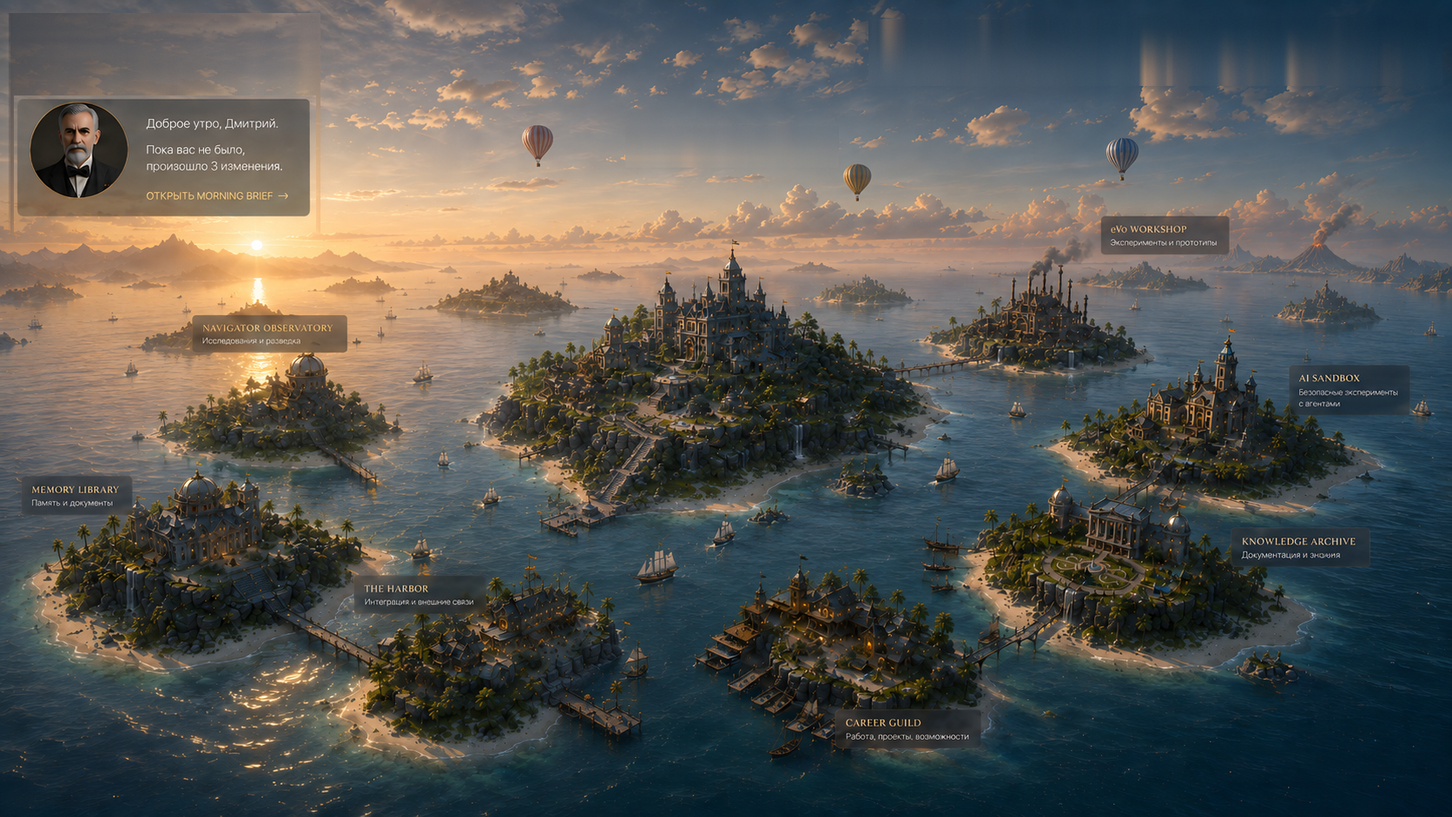
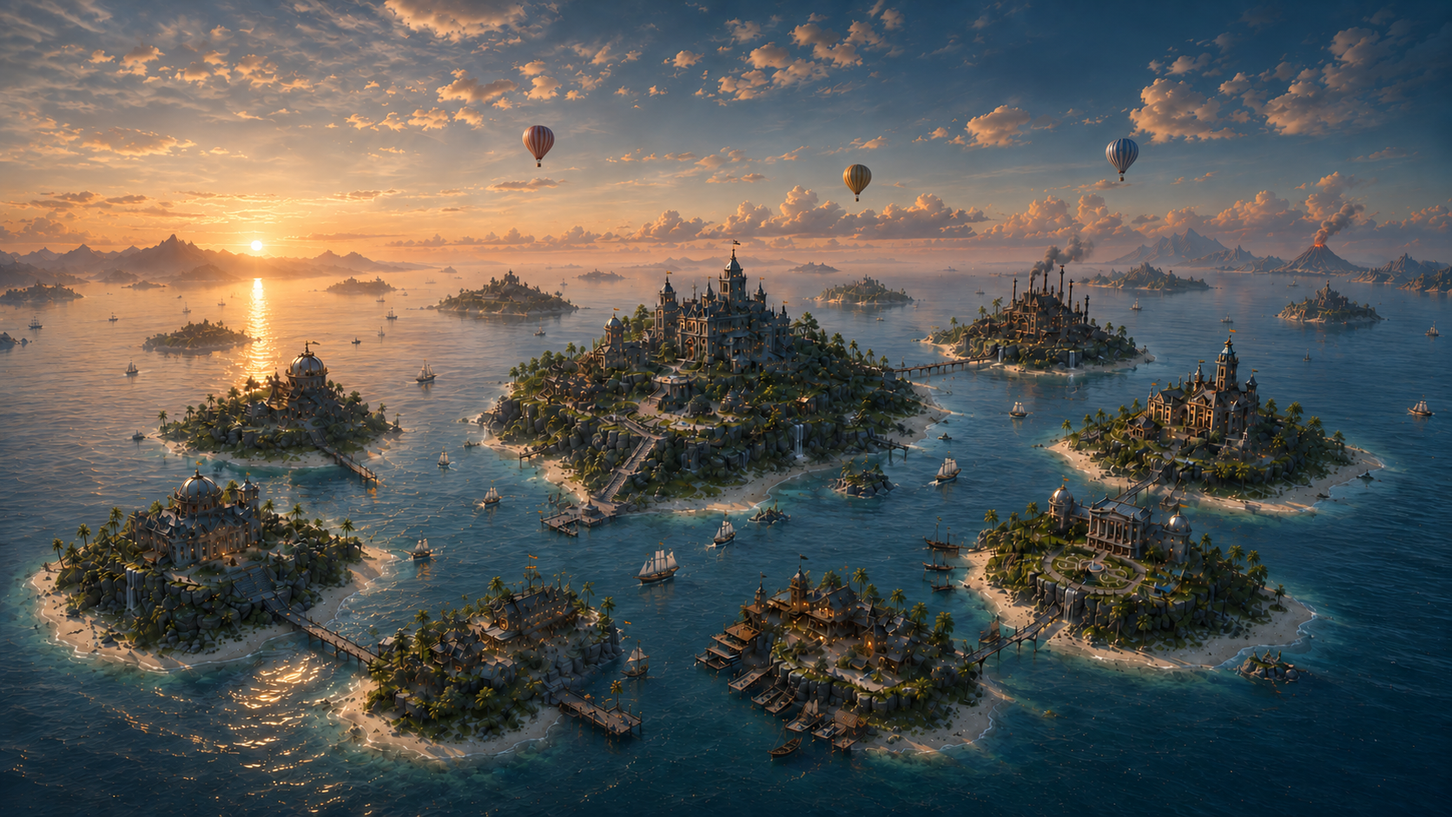
Barrymore plaque as pure HTML over clean art: bg swapped to Clear_main (painted text gone), portrait barrymore.png separate layer (animation-ready), live greeting + task counter (tasks.js), Review link, geometry on CSS variables; journal E-013

diff --git a/eVo/dashboard/style.css b/eVo/dashboard/style.css
@@ -595,26 +595,102 @@ body {
   text-decoration: line-through;
   color: var(--text-muted);
 }
-/* ===== Barrymore plaque: interactive zone over the painted artwork (replaces beacon) ===== */
+/* ===== Barrymore plaque: HTML-плашка поверх чистого арта (replaces beacon) =====
+   Фон (estate_bg.png) больше не содержит нарисованной таблички — плашка живёт
+   в HTML: тёмная деревянная панель + отдельный слой-портрет assets/barrymore.png
+   (готов к будущей анимации). Геометрия правится в одном месте — переменные
+   ниже. Размер и позиция заданы в % от фрейма карты (дизайн-размер 1672x941),
+   текст масштабируется вместе с плашкой через container-query единицы (cqw). */
+:root {
+  --plaque-top: 11%;      /* верхняя кромка плашки */
+  --plaque-left: 1%;      /* левая кромка */
+  --plaque-width: 22%;    /* ширина плашки */
+  --plaque-height: 16%;   /* высота плашки */
+  --portrait-width: 32%;  /* портрет: доля от ширины плашки */
+  --plaque-text-left: 38%;   /* текстовый блок: справа от портрета */
+  --plaque-text-top: 15%;
+  --plaque-text-width: 56%;
+}
+
 .plaque-zone {
   position: absolute;
-  top: 11%;
-  left: 1%;
-  width: 22%;
-  height: 16%;
+  top: var(--plaque-top);
+  left: var(--plaque-left);
+  width: var(--plaque-width);
+  height: var(--plaque-height);
   cursor: pointer;
-  border-radius: 14px;
-  border: 1px solid transparent;
-  transition: background 0.25s ease, border-color 0.25s ease, box-shadow 0.25s ease;
+  border-radius: 16px;
+  background: linear-gradient(165deg, rgba(24, 16, 8, 0.88) 0%, rgba(38, 26, 14, 0.76) 100%);
+  border: 1px solid rgba(251, 191, 36, 0.28);
+  box-shadow: 0 10px 30px rgba(0, 0, 0, 0.45), inset 0 1px 0 rgba(255, 235, 190, 0.12);
+  transition: border-color 0.25s ease, box-shadow 0.25s ease;
   z-index: 5;
 }
 
 .plaque-zone:hover,
 .plaque-zone:focus-visible {
-  background: rgba(251, 191, 36, 0.07);
-  border-color: rgba(251, 191, 36, 0.35);
-  box-shadow: 0 0 24px rgba(251, 191, 36, 0.15);
+  border-color: rgba(251, 191, 36, 0.55);
+  box-shadow: 0 10px 30px rgba(0, 0, 0, 0.45), 0 0 24px rgba(251, 191, 36, 0.2);
   outline: none;
+}
+
+/* Портрет Бэрримора — отдельный круглый слой с золотым кольцом */
+.plaque-portrait {
+  position: absolute;
+  left: 3%;
+  top: 50%;
+  width: var(--portrait-width);
+  aspect-ratio: 1 / 1;
+  transform: translateY(-50%);
+  border-radius: 50%;
+  border: 2px solid rgba(251, 191, 36, 0.55);
+  box-shadow: 0 4px 12px rgba(0, 0, 0, 0.55);
+  filter: sepia(0.12) saturate(1.05);
+  object-fit: cover;
+  pointer-events: none;
+  transition: transform 0.25s ease;
+}
+
+.plaque-zone:hover .plaque-portrait,
+.plaque-zone:focus-visible .plaque-portrait {
+  transform: translateY(-50%) scale(1.04);
+}
+
+/* Живой текст на плашке: контейнер-query — шрифт тянется от ширины блока,
+   поэтому при изменении --plaque-width / --plaque-text-width масштабируется сам. */
+.plaque-content {
+  position: absolute;
+  left: var(--plaque-text-left);
+  top: var(--plaque-text-top);
+  width: var(--plaque-text-width);
+  height: 70%;
+  display: flex;
+  flex-direction: column;
+  justify-content: center;
+  gap: 4%;
+  container-type: inline-size;
+  pointer-events: none;
+}
+
+.plaque-greeting {
+  font-family: var(--font-display);
+  font-size: 8cqw;
+  font-weight: 700;
+  line-height: 1.15;
+  color: #f7e8c9;
+  text-shadow: 0 1px 3px rgba(20, 10, 0, 0.65);
+}
+
+.plaque-info {
+  font-family: var(--font-mono);
+  font-size: 5.6cqw;
+  line-height: 1.3;
+  color: #e8cf9a;
+  text-shadow: 0 1px 2px rgba(20, 10, 0, 0.6);
+  display: -webkit-box;
+  -webkit-line-clamp: 3;
+  -webkit-box-orient: vertical;
+  overflow: hidden;
 }
 
 .plaque-brief-link {

diff --git a/eVo/dashboard/app.js b/eVo/dashboard/app.js
@@ -77,10 +77,11 @@ function initIslandHotspots() {
 
 /**
  * Плашка Баррримора (нарисована на арте) — кликабельная зона вместо маячка.
- * Ссылка «Morning Brief» под плашкой появляется при новом (непрочитанном)
- * докладе и исчезает после его открытия (localStorage: evo_brief_seen).
- * Точка расширения: вместо брифа ссылка может нести краткое имя другого
- * события (1–2 слова) — когда появятся другие типы событий.
+ * Живой контент: приветствие по времени суток + строка данных из Morning Brief
+ * (brief.js). Ссылка «Morning Brief» под плашкой появляется при новом
+ * (непрочитанном) докладе и исчезает после его открытия (localStorage:
+ * evo_brief_seen). Точка расширения: вместо брифа ссылка может нести краткое
+ * имя другого события (1–2 слова) — когда появятся другие типы событий.
  */
 function initBarrymorePlaque() {
   const plaque = document.getElementById("barrymore-plaque");
@@ -90,7 +91,58 @@ function initBarrymorePlaque() {
       if (e.key === "Enter" || e.key === " ") openIslandModal("barrymore");
     });
   }
+  renderPlaqueContent();
+  setInterval(renderPlaqueContent, 60000); // приветствие следует за временем суток
   updateBriefLink();
+}
+
+/**
+ * Живой текст на плашке: приветствие по часам + счётчик задач из EVO_TASKS
+ * (tasks.js). Если задач нет — самая полезная строка из EVO_BRIEF
+ * (дайджест агента → следующий шаг → git).
+ */
+function renderPlaqueContent() {
+  const greetingEl = document.getElementById("plaque-greeting");
+  const infoEl = document.getElementById("plaque-info");
+  const brief = (typeof EVO_BRIEF !== "undefined") ? EVO_BRIEF : null;
+  const tasks = (typeof EVO_TASKS !== "undefined") ? EVO_TASKS : null;
+
+  if (greetingEl) {
+    const h = new Date().getHours();
+    const word = h < 5 ? "Доброй ночи" : h < 12 ? "Доброе утро" : h < 18 ? "Добрый день" : "Добрый вечер";
+    greetingEl.textContent = word + ", Дмитрий";
+  }
+
+  if (infoEl) {
+    let line = "";
+    let tip = "";
+    const urgent = (tasks && tasks.urgent) ? tasks.urgent.length : 0;
+    const regular = (tasks && tasks.regular) ? tasks.regular.length : 0;
+    if (urgent > 0 || regular > 0) {
+      const parts = [];
+      if (urgent > 0) parts.push("Срочных: " + urgent);
+      if (regular > 0) parts.push("Постоянных: " + regular);
+      line = parts.join(" • ");
+      tip = "";
+      if (urgent > 0) tip += "Срочные:\n" + tasks.urgent.map(t => "• " + t.title + " (" + t.source + ")").join("\n") + "\n\n";
+      if (regular > 0) tip += "Постоянные:\n" + tasks.regular.map(t => "• " + t.title + " (" + t.source + ")").join("\n");
+    } else if (brief && brief.agent && brief.agent.summary) {
+      line = brief.agent.summary;
+      tip = line;
+    } else if (brief && brief.current && brief.current.nextAction) {
+      line = brief.current.nextAction;
+      tip = line;
+    } else if (brief && brief.state && brief.state.nextStep) {
+      line = brief.state.nextStep;
+      tip = line;
+    } else if (brief && brief.git) {
+      line = "Ветка " + brief.git.branch + " • " +
+        (brief.git.dirtyFiles === 0 ? "рабочее дерево чистое" : "изменено файлов: " + brief.git.dirtyFiles);
+      tip = line;
+    }
+    infoEl.textContent = line;
+    infoEl.title = tip.trim();
+  }
 }
 
 function markBriefSeen() {

diff --git a/eVo/dashboard/index.html b/eVo/dashboard/index.html
@@ -73,12 +73,19 @@
           </div>
         </div>
 
-        <!-- 2. Стюард Бэрримор — плашка нарисована на арте; живая кликабельная зона вместо маячка.
-             Под плашкой — ссылка на новый (непрочитанный) Morning Brief; после открытия исчезает. -->
+        <!-- 2. Стюард Бэрримор — HTML-плашка поверх чистого арта (фон Clear_main,
+             нарисованная плашка с текстом ушла в историю). Портрет — отдельный
+             слой assets/barrymore.png (круглый, с прозрачностью): готов к анимации.
+             Под плашкой — ссылка Review на новый (непрочитанный) Morning Brief. -->
         <div class="plaque-zone" id="barrymore-plaque" role="button" aria-label="Стюард Бэрримор — Morning Brief" tabindex="0">
+          <img class="plaque-portrait" src="assets/barrymore.png" alt="" aria-hidden="true">
+          <div class="plaque-content" aria-hidden="true">
+            <div class="plaque-greeting" id="plaque-greeting"></div>
+            <div class="plaque-info" id="plaque-info"></div>
+          </div>
           <div class="plaque-brief-link" id="barrymore-brief-link" hidden>
             <span class="plaque-brief-dot"></span>
-            <span>Morning Brief</span><span class="plaque-brief-arrow">→</span>
+            <span>Review</span><span class="plaque-brief-arrow">→</span>
           </div>
         </div>
 
@@ -263,6 +270,7 @@
 
   <script src="languages.js"></script>
   <script src="brief.js"></script>
+  <script src="tasks.js"></script>
   <script src="app.js"></script>
 </body>
 </html>

diff --git a/eVo/dashboard/tasks.js b/eVo/dashboard/tasks.js
@@ -1,0 +1,17 @@
+// Снимок задач для плашки Бэрримора.
+// Пока заполнен вручную (демо-данные на реальных пунктах плана); в будущем
+// генератор (аналогично morning-brief) может собирать этот файл из
+// Memory/Engineering/PLAN.md и Memory/Context/.
+// Формат: { generatedAt, urgent: [{title, source}], regular: [{title, source}] }
+window.EVO_TASKS = {
+  generatedAt: "2026-10-25T12:00:00",
+  urgent: [
+    { title: "Ротация ключей LangSmith/FreeLLMAPI", source: "S-1" },
+    { title: "Мастер-пароль KeePassXC + бэкап хранилища", source: "S-4" }
+  ],
+  regular: [
+    { title: "Актуализация Memory/Context/CURRENT.md", source: "R3" },
+    { title: "Слияние веток по D-002", source: "R9" },
+    { title: "Чистка пустых заглушек (locales, Carrier, Timeline)", source: "R7" }
+  ]
+};

diff --git a/Memory/Engineering/STATE.md b/Memory/Engineering/STATE.md
@@ -6,17 +6,17 @@
 
 ## Контроль
 
-- Обновлено: 2026-10-25 19:06 (E-010 — Morning Brief MVP + KeePassXC для ключей; ранее: 18:31 E-009, 16:39 S-3+отчёт, 15:29 E-001, 14:38 создание)
+- Обновлено: 2026-10-25 22:23 (E-013 — чистый арт + HTML-плашка Баррримора; ранее: 19:30 E-012, 19:15 E-011, 19:06 E-010, 18:31 E-009, 16:39 S-3+отчёт, 15:29 E-001, 14:38 создание)
 - Ветка: `feature_1.8.2` (создана из release/v1.8.1 после его пуша)
-- HEAD: `cdbbebc` на момент записи (RFC/D-002/отчёт/доки); эта запись журнала фиксируется следующим коммитом
-- Рабочее дерево: untracked — только `.graphifyignore` (существовал до начала работ) и `Memory/Engineering/`; `release/v1.8.1` запушен (`709b2c5`); `feature_1.8.2` НЕ запушена (пуш не запрашивался)
-- Время последней проверки Git-состояния: 2026-10-25 18:31 (после COMMIT3 `cdbbebc`)
+- HEAD: `b6c98b1` на момент записи (Barrymore UX E-012); запись E-013 фиксируется следующим коммитом
+- Рабочее дерево: изменены Docs/Barrymore.md, Docs/Map.md, CHANGELOG.md, eVo/dashboard/* (фон, app.js, index.html, style.css), Memory/Engineering/*; новые: eVo/dashboard/tasks.js, eVo/dashboard/assets/barrymore.png, Vision/.../Barrymore.png + Clear_main.png + ещё 2 референса; удалён пользователем старый скрин в Vision/; untracked-мусор: `.graphifyignore`, 8 копий «estate_bg_original — копия (N).png» в assets (не мои, не коммитил); `release/v1.8.1` запушен (`709b2c5`); `feature_1.8.2` НЕ запушена
+- Время последней проверки Git-состояния: 2026-10-25 22:23 (перед коммитом E-013)
 
 ## Статус аудита
 
 **Аудит завершён и частично реализован.** E-001…E-008 — исследование, синтез, отчёт (архивная копия: `Memory/Archive/Reports/Report-2026-10-25-audit.md`). E-009 — реструктуризация контура по решениям пользователя (RFC-001; коммиты `fbffd54`, `032eb57`, `cdbbebc` на `feature_1.8.2`): чужое и архивное вынесено за контур, дубли удалены, ADR консолидированы (ADR-001…005 + INDEX), RFC-процесс создан, D-002 — модель веток.
 
-- Выполнено: E-000…E-010; S-2, S-3, S-5; основная часть S-4; Morning Brief MVP работает (генератор + дашборд).
+- Выполнено: E-000…E-013; S-2, S-3, S-5; основная часть S-4; Morning Brief MVP работает (генератор + дашборд); плашка Баррримора — HTML поверх чистого арта (портрет отдельным слоем, задачи из tasks.js, геометрия на CSS-переменных).
 - Открытые рекомендации из отчёта: R3 (актуализация CURRENT.md — бриф теперь это видимо показывает), R5 (фиктивные статусы HUD), R7 (пустые заглушки), R8 (bootstrap), R9 (слияния веток), R12 (кодировки).
 
 ## Подтверждено (кратко; доказательства в FINDINGS и LOG)

diff --git a/Docs/Barrymore.md b/Docs/Barrymore.md
@@ -13,9 +13,15 @@
 ## Где смотреть
 
 - Открыть `eVo/dashboard/index.html` в браузере.
-- **Плашка с лицом Баррримора** (верхний левый угол карты) — кликабельна: открывает Morning Brief.
-- Под плашкой появляется **ссылка «Morning Brief →»**, когда есть новый, ещё не открытый доклад. Открыли — ссылка исчезла до следующего доклада.
+- **Плашка Баррримора** (верхний левый угол карты) — HTML-панель поверх чистого арта: портрет `assets/barrymore.png` (отдельный слой, готов к анимации), приветствие по времени суток и счётчик задач из `tasks.js` (подсказка при наведении перечисляет задачи). Клик — открывает Morning Brief.
+- Под плашкой появляется **ссылка «Review →»**, когда есть новый, ещё не открытый доклад. Открыли — ссылка исчезла до следующего доклада.
 - Если LLM недоступен, в докладе будет блок «мозги недоступны», а ниже — обычные данные. Это не поломка.
+
+## Задачи на плашке (`eVo/dashboard/tasks.js`)
+
+- Пока заполняется вручную: `urgent` (срочные) и `regular` (постоянные) — заголовок + источник (например, `S-1` из `Memory/Engineering/PLAN.md`).
+- Планируется генератор по аналогии с Morning Brief (источник — `PLAN.md` и `Memory/Context/`).
+- Пока задач нет, плашка показывает строку из Morning Brief (дайджест агента → следующий шаг → состояние git).
 
 ## Как обновить доклад
 

diff --git a/Docs/Map.md b/Docs/Map.md
@@ -60,7 +60,7 @@
 
 Поведение: клик по острову открывает модалку. Задачи рычагов живут в `localStorage`. Morning Brief на острове Barrymore — захардкоженный текст, не чтение Memory.
 
-Острова на карте: Main Estate, Navigator, Memory Library, Harbor, Career Guild, Knowledge Archive, AI Sandbox, Workshop. Бэрримор — не маячок, а кликабельная плашка с его лицом в верхнем левом секторе (нарисована на арте); под ней ссылка «Morning Brief» при новом непрочитанном докладе. Инструкция — `Docs/Barrymore.md`.
+Острова на карте: Main Estate, Navigator, Memory Library, Harbor, Career Guild, Knowledge Archive, AI Sandbox, Workshop. Бэрримор — не маячок, а кликабельная HTML-плашка в верхнем левом секторе: деревянная панель + отдельный слой-портрет `assets/barrymore.png`, приветствие по времени суток и счётчик задач (`tasks.js`); под ней ссылка «Review» при новом непрочитанном докладе. Фон карты — чистый арт без нарисованного текста (исходник `Vision/First_evo_pictures/Good_references/Clear_main.png`). Инструкция — `Docs/Barrymore.md`.
 
 ### Vue-каркас — удалён (25.10.2026)
 

diff --git a/Memory/Engineering/PLAN.md b/Memory/Engineering/PLAN.md
@@ -28,6 +28,7 @@
 | E-010 | Morning Brief MVP (R4/INITIATIVE-0001): read-only генератор + живой рендер дашбордом; ключи → KeePassXC | Генератор работает; снимок валиден; дашборд рендерит с fallback | E-009 | Done (2026-10-25) |
 | E-011 | Автономный Barrymore: LLM-доклад через локальный шлюз (stdlib, ADR-003/004) | Первый успешный доклад без агента-ассистента; graceful fallback | E-010 | Done (2026-10-25) |
 | E-012 | UX: плашка Баррримора вместо маячка + ссылка непрочитанного брифа; инструкция Docs/Barrymore.md | Маячок удалён; зона клика и ссылка работают; инструкция написана | E-011 | Done (2026-10-25) |
+| E-013 | Чистый арт (Clear_main) + HTML-плашка: портрет отдельным слоем, живое приветствие, счётчик задач (tasks.js), ссылка Review, геометрия на CSS-переменных | Проверено в браузере (DOM+пиксели); tasks.js — демо, генератор — задел | E-012 | Done (2026-10-25) |
 
 ## Служебные задачи вне этапов
 

diff --git a/CHANGELOG.md b/CHANGELOG.md
@@ -31,3 +31,5 @@ YYYY-MM-DD | change | reason | RFC
 2026-10-25 | Barrymore Morning Brief: deterministic generator + autonomous LLM agent (local FreeLLMAPI gateway, stdlib-only, ADR-003/004 compliant) | give Barrymore its own brains | —
 
 2026-10-25 | Barrymore UX: map beacon removed, painted plaque is now the clickable entry; unread "Morning Brief" link under the plaque; user guide Docs/Barrymore.md | user request | —
+
+2026-10-25 | Barrymore plaque becomes pure HTML over clean art: background swapped to Clear_main (painted text gone), portrait barrymore.png as separate layer, live greeting + task counter (tasks.js), "Review" link, geometry on CSS variables | user request | —
